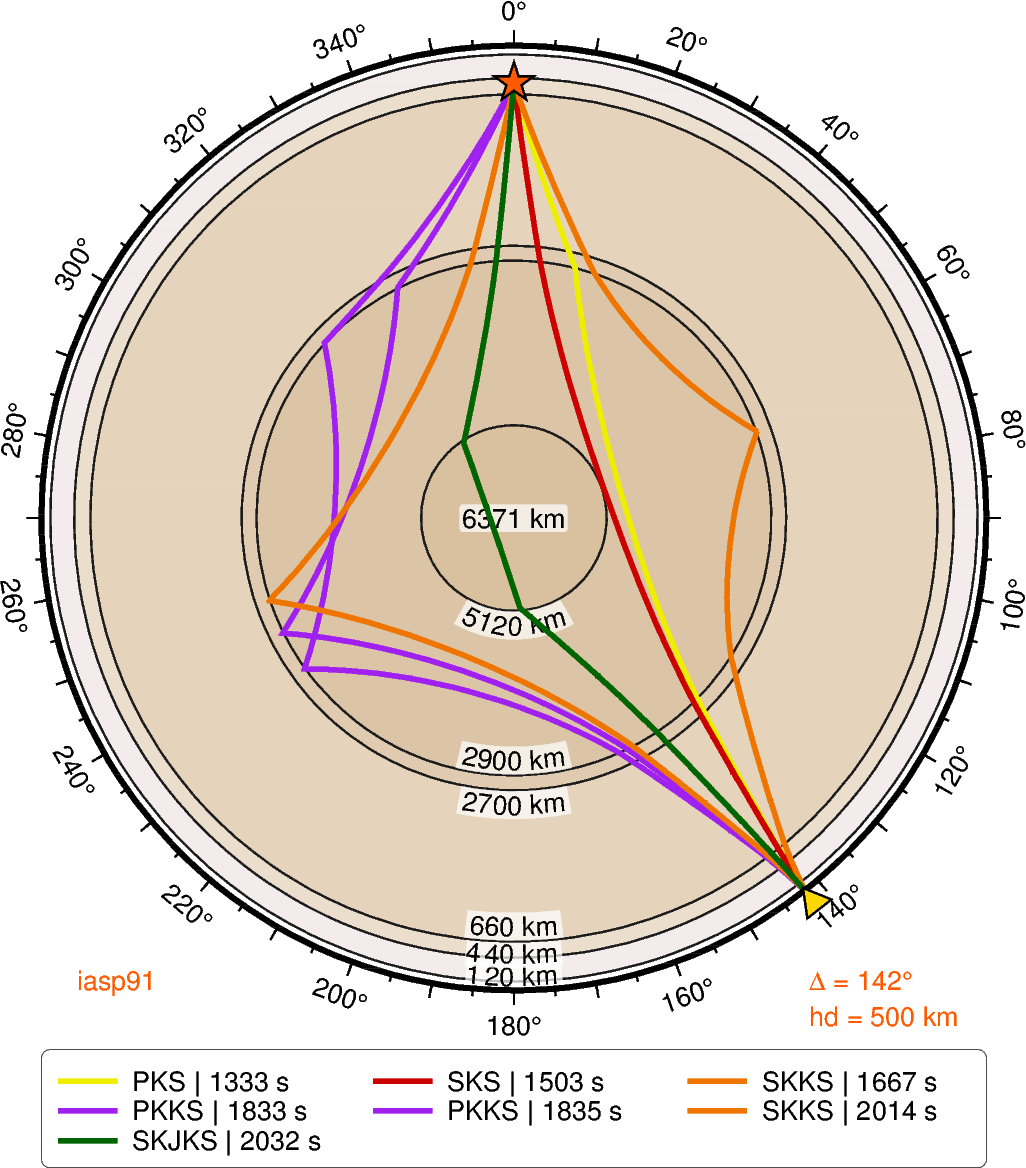
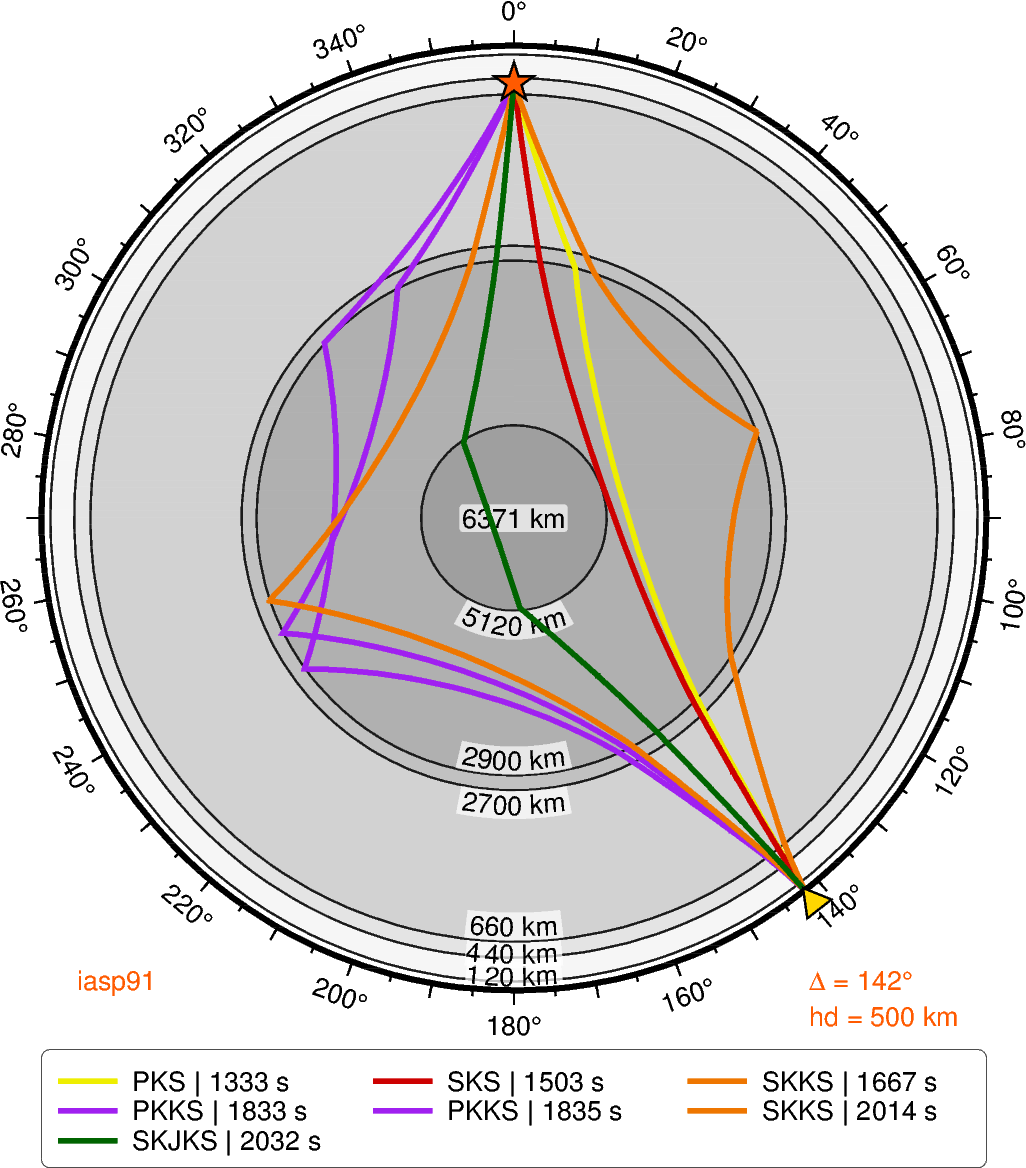
Update images and README picture

Changed region(s): [[0.2183, 0.2158, 0.7797, 0.6781]]

diff --git a/003_taup/01_travel_path/taup_path.py b/003_taup/01_travel_path/taup_path.py
@@ -363,6 +363,7 @@ def taup_path(
 taup_path(
     fig_width="8c",
     font_size="6.5p",
+    earth_color="gray",
     source_depth=500,
     receiver_dist=142,
     max_dist=360,
@@ -372,6 +373,7 @@ taup_path(
 taup_path(
     fig_width="8c",
     font_size="6.5p",
+    earth_color="gray",
     source_depth=500,
     receiver_dist=142,
     min_dist=100,
